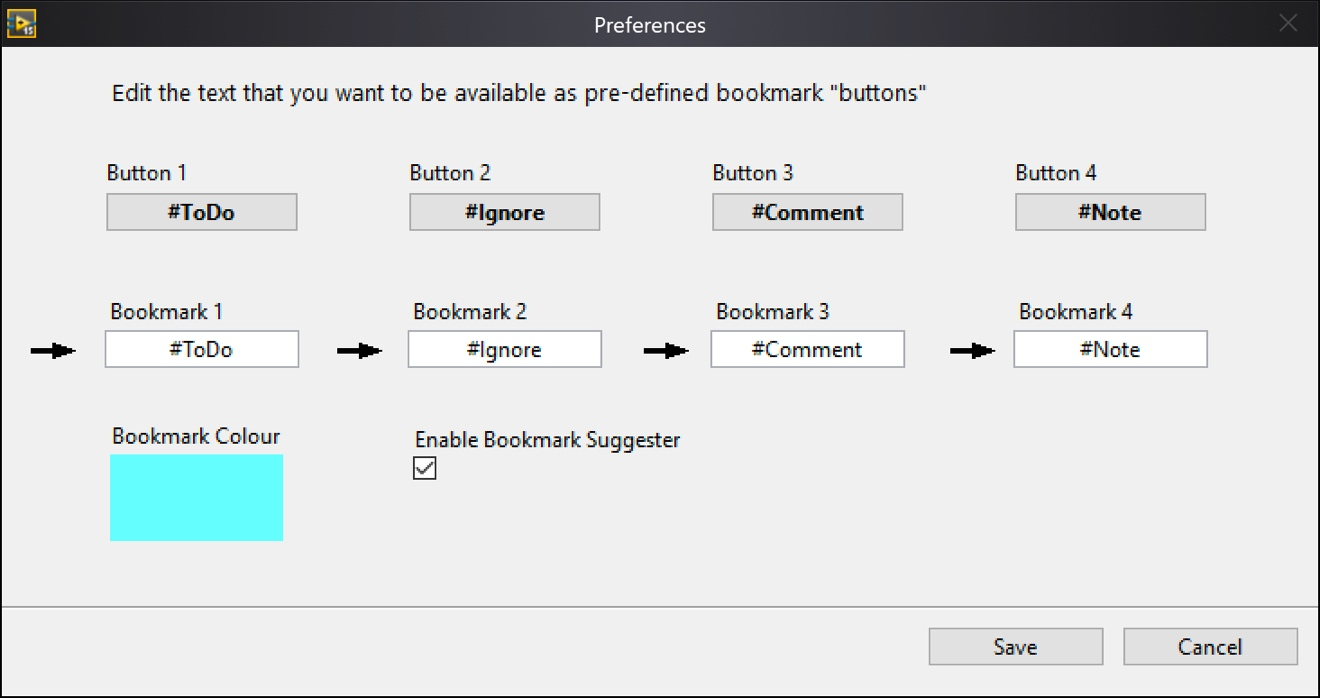
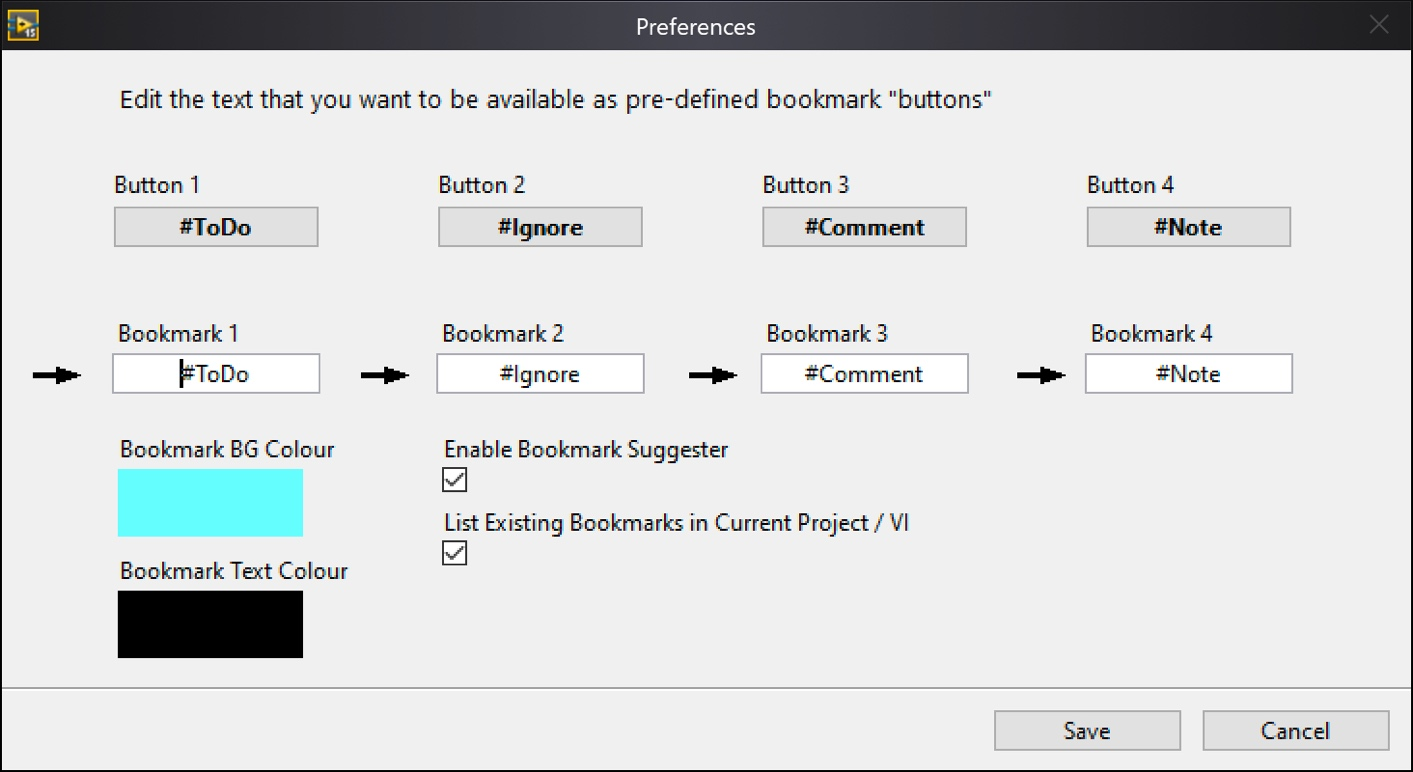
Updated Images for Right Click menu

diff --git a/Greylock Technology/Bookmark Project Provider User Guide/Bookmark Project Provider User Guide.html b/Greylock Technology/Bookmark Project Provider User Guide/Bookmark Project Provider User Guide.html
@@ -26,14 +26,14 @@ w\:* {behavior:url(#default#VML);}
   <o:LastAuthor>Chris Roebuck</o:LastAuthor>
   <o:Revision>2</o:Revision>
   <o:TotalTime>0</o:TotalTime>
-  <o:Created>2021-03-14T15:12:00Z</o:Created>
-  <o:LastSaved>2021-03-14T15:12:00Z</o:LastSaved>
+  <o:Created>2021-04-02T09:06:00Z</o:Created>
+  <o:LastSaved>2021-04-02T09:06:00Z</o:LastSaved>
   <o:Pages>1</o:Pages>
-  <o:Words>994</o:Words>
-  <o:Characters>5668</o:Characters>
+  <o:Words>995</o:Words>
+  <o:Characters>5676</o:Characters>
   <o:Lines>47</o:Lines>
   <o:Paragraphs>13</o:Paragraphs>
-  <o:CharactersWithSpaces>6649</o:CharactersWithSpaces>
+  <o:CharactersWithSpaces>6658</o:CharactersWithSpaces>
   <o:Version>16.00</o:Version>
  </o:DocumentProperties>
  <o:OfficeDocumentSettings>
@@ -1277,8 +1277,8 @@ block diagram and adding the comment. </p>
 
 <p class=MsoNormal><o:p>&nbsp;</o:p></p>
 
-<p class=MsoNormal>This toolkit does also provide options for adding Bookmarks
-to open VIs from their block diagram and makes creating them easier and more
+<p class=MsoNormal>This toolkit does provide options for adding Bookmarks to
+open VIs from their block diagram and makes creating them easier and more
 useful than ever.</p>
 
 <p class=MsoNormal><span style='font-size:18.0pt'><o:p>&nbsp;</o:p></span></p>
@@ -1457,21 +1457,21 @@ label containing bookmark / text</p>
 <p class=MsoNormal><o:p>&nbsp;</o:p></p>
 
 <p class=MsoNormal>Clicking preferences launches the preferences editor where
-the four (4) predefined bookmarks can be edited and the colour of the resulting
-free label adjusted.</p>
+the four (4) predefined bookmarks can be <span class=GramE>edited</span> and
+the colour of the resulting free label (or text) adjusted.</p>
 
 <p class=MsoNormal><o:p>&nbsp;</o:p></p>
 
 <p class=MsoNormal align=center style='text-align:center;page-break-after:avoid'><span
-style='mso-no-proof:yes'><!--[if gte vml 1]><v:shape id="Picture_x0020_13"
- o:spid="_x0000_i1028" type="#_x0000_t75" alt="Graphical user interface&#10;&#10;Description automatically generated"
- style='width:430pt;height:228pt;visibility:visible;mso-wrap-style:square'>
+style='mso-no-proof:yes'><!--[if gte vml 1]><v:shape id="Picture_x0020_10"
+ o:spid="_x0000_i1028" type="#_x0000_t75" alt="Graphical user interface, application&#10;&#10;Description automatically generated"
+ style='width:462pt;height:252pt;visibility:visible;mso-wrap-style:square'>
  <v:imagedata src="Bookmark%20Project%20Provider%20User%20Guide.fld/image008.jpg"
-  o:title="Graphical user interface&#10;&#10;Description automatically generated"/>
-</v:shape><![endif]--><![if !vml]><img width=430 height=228
+  o:title="Graphical user interface, application&#10;&#10;Description automatically generated"/>
+</v:shape><![endif]--><![if !vml]><img width=462 height=252
 src="Bookmark%20Project%20Provider%20User%20Guide.fld/image008.jpg"
-alt="Graphical user interface&#10;&#10;Description automatically generated"
-v:shapes="Picture_x0020_13"><![endif]></span></p>
+alt="Graphical user interface, application&#10;&#10;Description automatically generated"
+v:shapes="Picture_x0020_10"><![endif]></span></p>
 
 <p class=MsoCaption align=center style='text-align:center'>Figure <!--[if supportFields]><span
 style='mso-element:field-begin'></span><span
@@ -1541,7 +1541,7 @@ field-separator'></span><![endif]--><span style='mso-no-proof:yes'>8</span><!--[
 style='mso-no-proof:yes'><span style='mso-element:field-end'></span></span><![endif]-->
 - Bookmark Manager</p>
 
-<p class=MsoNormal>Version 1.4.x.x (and later) adds several further options for
+<p class=MsoNormal>Version 2.0.0.0 (and later) adds several further options for
 creating bookmarks and makes standardising on “preferred” bookmarks even
 easier. </p>
 
@@ -1622,7 +1622,7 @@ on the context in which it was launched. </p>
 
 <p class=MsoNormal><o:p>&nbsp;</o:p></p>
 
-<p class=MsoNormal>To include your own list of preferred bookmarks add them to
+<p class=MsoNormal>To include your own list of preferred bookmarks, add them to
 the file that has been automatically created for you at the following location:</p>
 
 <p class=MsoNormal><o:p>&nbsp;</o:p></p>
@@ -1658,19 +1658,23 @@ immediately followed by <b>Ctrl + M</b></p>
 <p class=MsoNormal><o:p>&nbsp;</o:p></p>
 
 <p class=MsoNormal>You can invoke the New Bookmark editor by right clicking on
-an existing free text label on the block diagram of a VI and selecting the <i>Add
+an existing free text label on the block diagram of a VI and selecting the <i>Edit
 Bookmark</i> item.</p>
 
+<p class=MsoNormal><o:p>&nbsp;</o:p></p>
+
+<p class=MsoNormal><o:p>&nbsp;</o:p></p>
+
 <p class=MsoNormal align=center style='text-align:center;page-break-after:avoid'><span
-style='mso-no-proof:yes'><!--[if gte vml 1]><v:shape id="Picture_x0020_15"
- o:spid="_x0000_i1025" type="#_x0000_t75" alt="Graphical user interface, application&#10;&#10;Description automatically generated"
- style='width:283pt;height:142pt;visibility:visible;mso-wrap-style:square'>
+style='mso-no-proof:yes'><!--[if gte vml 1]><v:shape id="Picture_x0020_12"
+ o:spid="_x0000_i1025" type="#_x0000_t75" alt="Graphical user interface, text, application&#10;&#10;Description automatically generated"
+ style='width:262pt;height:121pt;visibility:visible;mso-wrap-style:square'>
  <v:imagedata src="Bookmark%20Project%20Provider%20User%20Guide.fld/image011.jpg"
-  o:title="Graphical user interface, application&#10;&#10;Description automatically generated"/>
-</v:shape><![endif]--><![if !vml]><img width=283 height=142
+  o:title="Graphical user interface, text, application&#10;&#10;Description automatically generated"/>
+</v:shape><![endif]--><![if !vml]><img width=262 height=121
 src="Bookmark%20Project%20Provider%20User%20Guide.fld/image011.jpg"
-alt="Graphical user interface, application&#10;&#10;Description automatically generated"
-v:shapes="Picture_x0020_15"><![endif]></span></p>
+alt="Graphical user interface, text, application&#10;&#10;Description automatically generated"
+v:shapes="Picture_x0020_12"><![endif]></span></p>
 
 <p class=MsoCaption align=center style='text-align:center'>Figure <!--[if supportFields]><span
 style='mso-element:field-begin'></span><span
